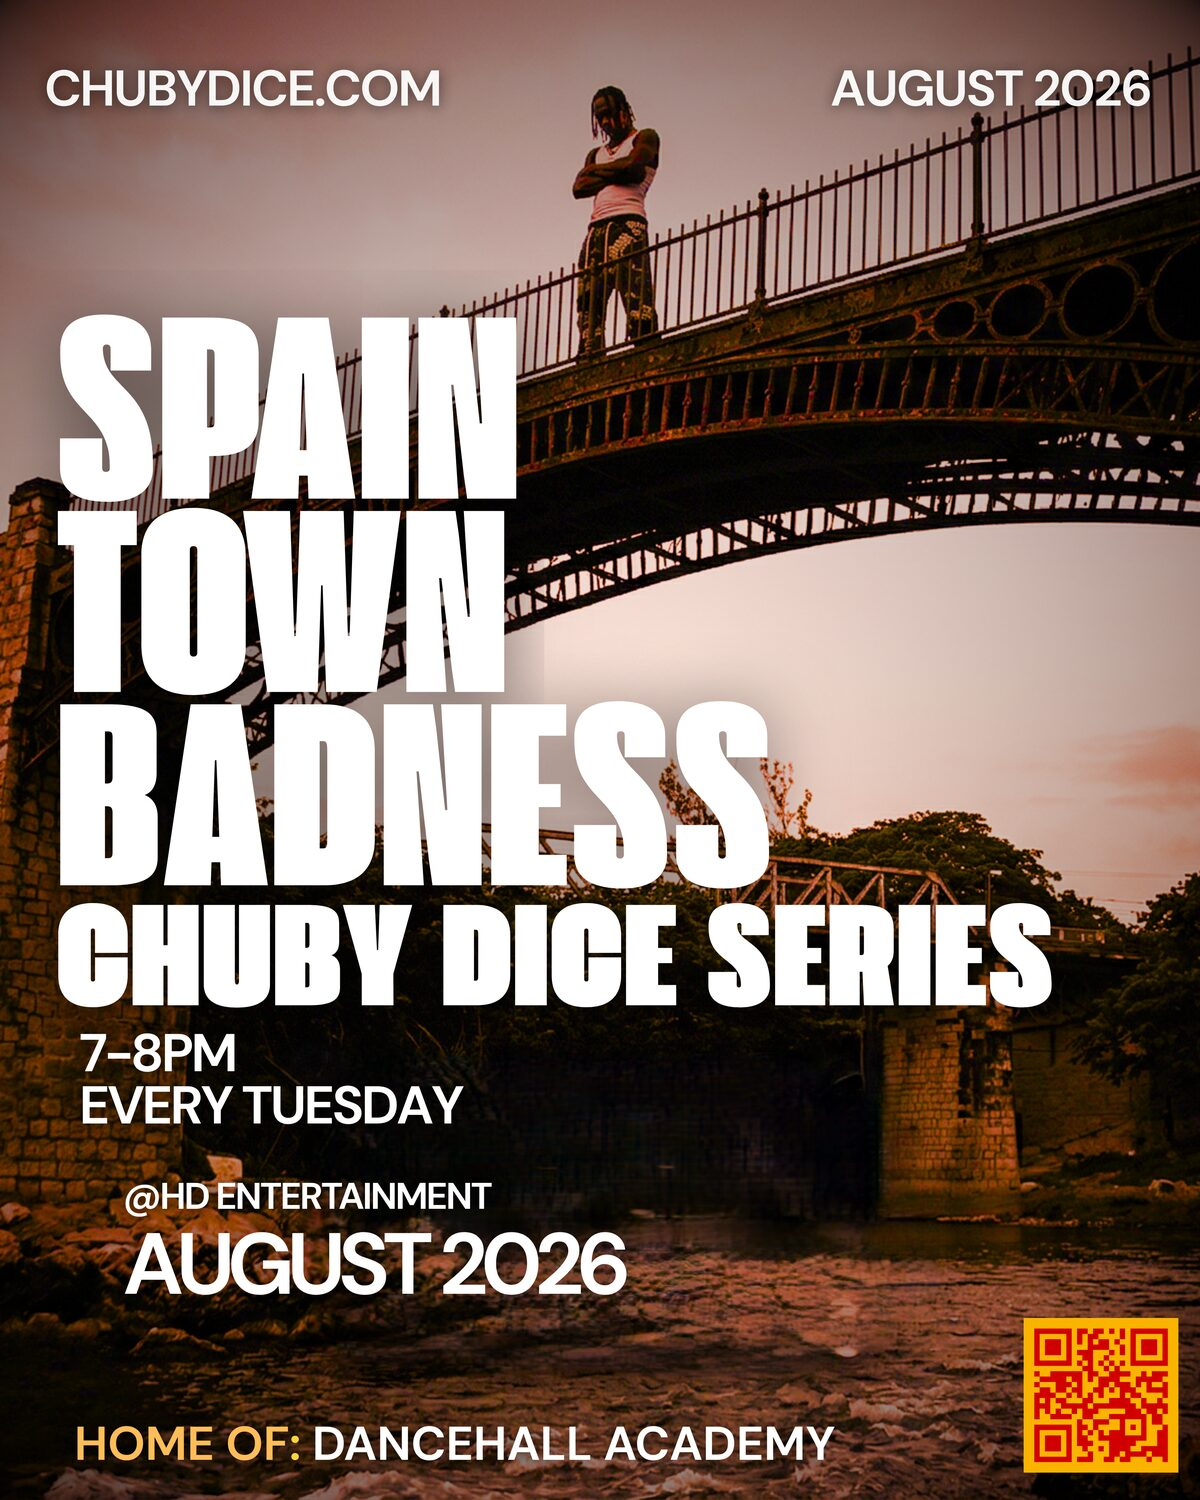
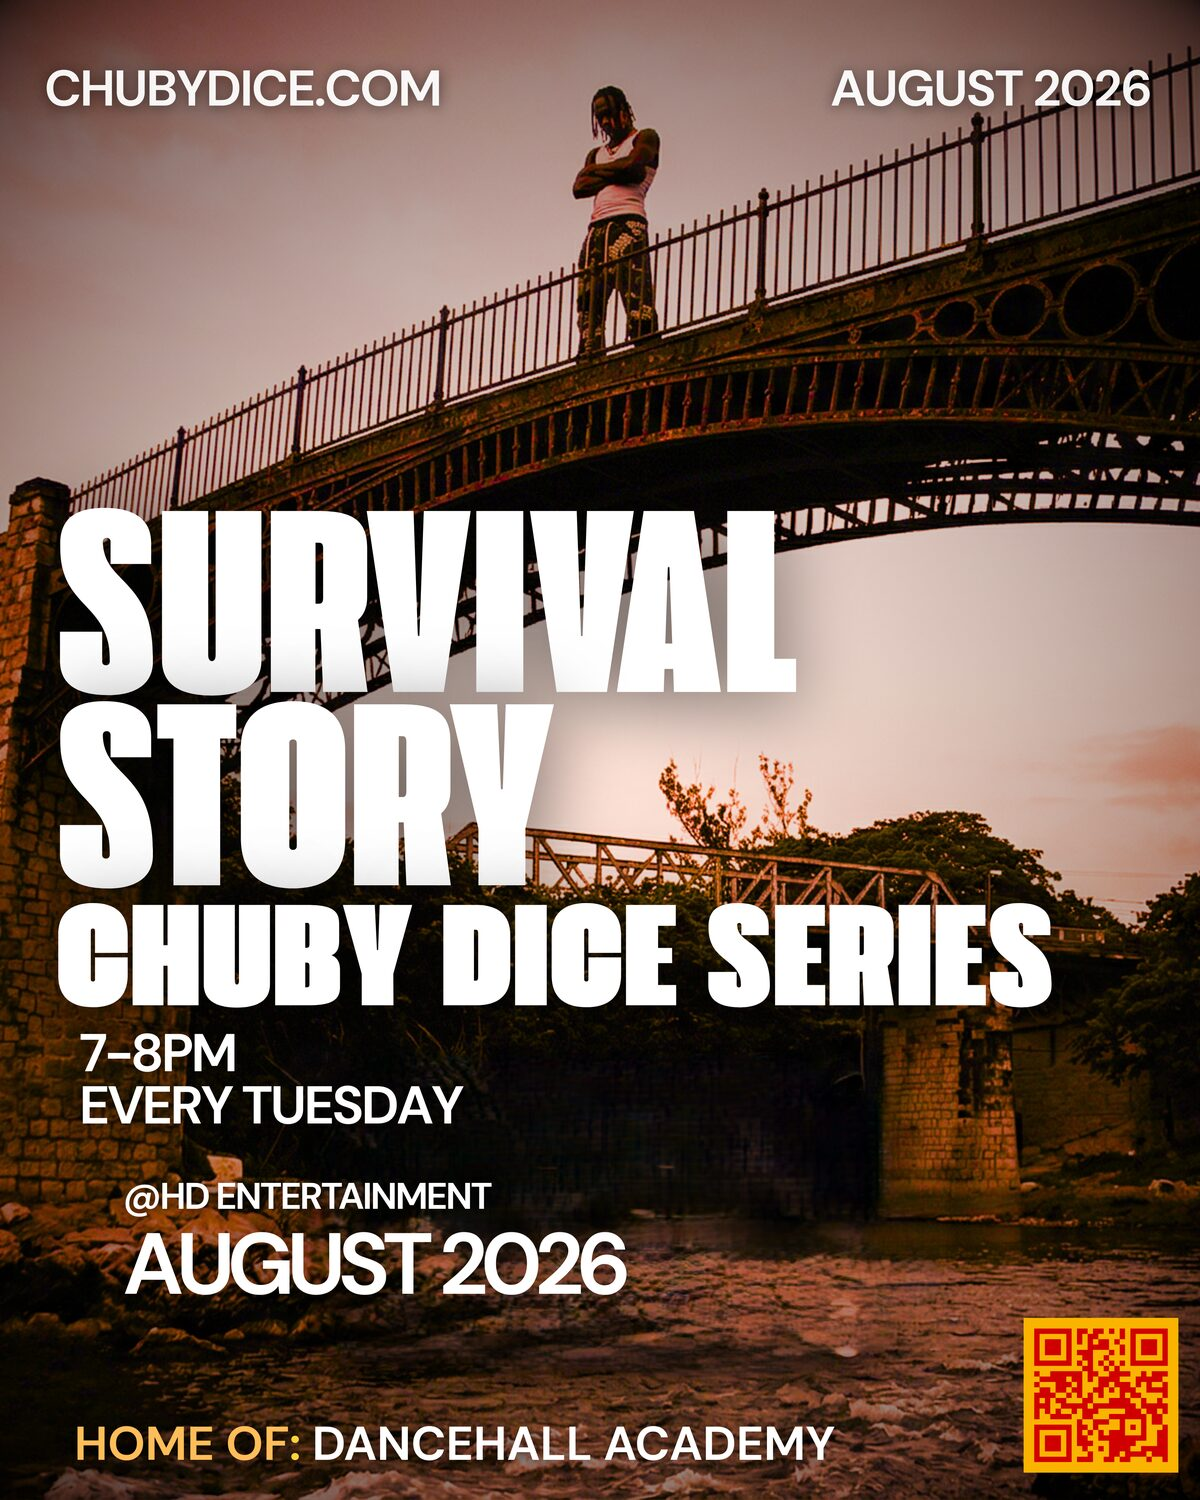
feat: attach clash images, runsheets, and revised August series image
- Replace spain-town-badness.jpg with revised August series image
- Add clash-overarching.jpg to clash.html hero and index.html tile
- Add litefeet-v-dancehall.jpg to hero and clash.html section
- Add krump-v-dancehall.jpg to hero and clash.html section
- Add MAY and AUGUST runsheet images to clash sub-pages
- Add clash-no-photo.jpg and clash-clean.jpg as alternate variants
- Remove all "Shell — Image TBC" badges and placeholder text from clash sections
- All images optimized from 3-13MB PNGs to 187-294KB JPGs

Changed region(s): [[0.0308, 0.184, 0.6783, 0.6133]]

diff --git a/clash.html b/clash.html
@@ -508,7 +508,7 @@ footer {
 
 <!-- ─── HERO ─── -->
 <section class="hero">
-  <img src="images/clash-inna-dancehall.png" alt="Clash Inna Dancehall" style="position:absolute;inset:0;width:100%;height:100%;object-fit:cover;object-position:center top;z-index:0;opacity:0.6;" />
+  <img src="images/clash-overarching.jpg" alt="Clash Inna Dancehall" style="position:absolute;inset:0;width:100%;height:100%;object-fit:cover;object-position:center top;z-index:0;opacity:0.6;" loading="eager" decoding="async" />
   <div style="position:absolute;inset:0;background:linear-gradient(to bottom,rgba(10,10,10,0.4) 0%,rgba(10,10,10,0.2) 40%,rgba(10,10,10,0.7) 80%,rgba(10,10,10,1) 100%);z-index:1;pointer-events:none;"></div>
   <div class="hero-bg-text" style="z-index:2;">CLASH</div>
   <div class="hero-content" style="position:relative;z-index:3;">
@@ -556,14 +556,12 @@ footer {
   <!-- LITEFEET V DANCEHALL — SHELL -->
   <div style="background:linear-gradient(135deg,rgba(6,214,160,0.04) 0%,rgba(4,3,10,0.6) 100%);border:1px solid rgba(6,214,160,0.12);border-radius:16px;padding:32px;margin-bottom:28px;">
     <div style="display:flex;align-items:center;gap:10px;flex-wrap:wrap;margin-bottom:12px;">
-      <span style="display:inline-block;font-family:'Outfit',sans-serif;font-size:0.65rem;font-weight:700;letter-spacing:0.15em;text-transform:uppercase;color:#f5c518;background:rgba(245,197,24,0.1);border:1px solid rgba(245,197,24,0.25);padding:4px 10px;border-radius:50px;">Shell — Image TBC</span>
       <span style="display:inline-block;font-family:'Outfit',sans-serif;font-size:0.7rem;font-weight:700;letter-spacing:0.15em;text-transform:uppercase;color:rgba(6,214,160,0.9);background:rgba(6,214,160,0.08);border:1px solid rgba(6,214,160,0.2);padding:4px 12px;border-radius:50px;">Clash One</span>
       <span style="font-family:'Outfit',sans-serif;font-size:0.7rem;font-weight:600;color:rgba(255,255,255,0.5);">May 2026</span>
     </div>
     <h3 style="font-family:'Outfit',sans-serif;font-size:clamp(1.4rem,3vw,2rem);font-weight:800;color:rgba(6,214,160,0.95);margin-bottom:12px;letter-spacing:0.02em;">LITEFEET V DANCEHALL</h3>
-    <!-- Placeholder image area -->
-    <div style="width:100%;height:200px;background:linear-gradient(135deg,#041a14 0%,#0a2e24 50%,#04130e 100%);border-radius:12px;margin-bottom:16px;display:flex;align-items:center;justify-content:center;">
-      <span style="font-family:'Outfit',sans-serif;font-size:0.8rem;color:rgba(255,255,255,0.2);letter-spacing:0.1em;">Image placeholder — Esha to provide</span>
+    <div style="width:100%;border-radius:12px;margin-bottom:16px;overflow:hidden;position:relative;">
+      <img src="images/litefeet-v-dancehall.jpg" alt="Litefeet v Dancehall — May 2026" style="width:100%;height:280px;object-fit:cover;object-position:center top;display:block;border-radius:12px;" loading="lazy" decoding="async">
     </div>
     <p style="color:rgba(220,210,245,0.7);font-size:0.9rem;line-height:1.7;margin-bottom:20px;">Write-up coming soon — Esha to provide copy for Litefeet v Dancehall clash details, format, and registration info.</p>
     <div style="display:flex;gap:10px;flex-wrap:wrap;">
@@ -575,14 +573,12 @@ footer {
   <!-- KRUMP V DANCEHALL — SHELL -->
   <div style="background:linear-gradient(135deg,rgba(6,214,160,0.04) 0%,rgba(4,3,10,0.6) 100%);border:1px solid rgba(6,214,160,0.12);border-radius:16px;padding:32px;margin-bottom:28px;">
     <div style="display:flex;align-items:center;gap:10px;flex-wrap:wrap;margin-bottom:12px;">
-      <span style="display:inline-block;font-family:'Outfit',sans-serif;font-size:0.65rem;font-weight:700;letter-spacing:0.15em;text-transform:uppercase;color:#f5c518;background:rgba(245,197,24,0.1);border:1px solid rgba(245,197,24,0.25);padding:4px 10px;border-radius:50px;">Shell — Image TBC</span>
       <span style="display:inline-block;font-family:'Outfit',sans-serif;font-size:0.7rem;font-weight:700;letter-spacing:0.15em;text-transform:uppercase;color:rgba(6,214,160,0.9);background:rgba(6,214,160,0.08);border:1px solid rgba(6,214,160,0.2);padding:4px 12px;border-radius:50px;">Clash Two</span>
       <span style="font-family:'Outfit',sans-serif;font-size:0.7rem;font-weight:600;color:rgba(255,255,255,0.5);">July 2026</span>
     </div>
     <h3 style="font-family:'Outfit',sans-serif;font-size:clamp(1.4rem,3vw,2rem);font-weight:800;color:rgba(6,214,160,0.95);margin-bottom:12px;letter-spacing:0.02em;">KRUMP V DANCEHALL</h3>
-    <!-- Placeholder image area -->
-    <div style="width:100%;height:200px;background:linear-gradient(135deg,#0a1a14 0%,#142e24 50%,#0a130e 100%);border-radius:12px;margin-bottom:16px;display:flex;align-items:center;justify-content:center;">
-      <span style="font-family:'Outfit',sans-serif;font-size:0.8rem;color:rgba(255,255,255,0.2);letter-spacing:0.1em;">Image placeholder — Esha to provide</span>
+    <div style="width:100%;border-radius:12px;margin-bottom:16px;overflow:hidden;position:relative;">
+      <img src="images/krump-v-dancehall.jpg" alt="Krump v Dancehall — July 2026" style="width:100%;height:280px;object-fit:cover;object-position:center top;display:block;border-radius:12px;" loading="lazy" decoding="async">
     </div>
     <p style="color:rgba(220,210,245,0.7);font-size:0.9rem;line-height:1.7;margin-bottom:20px;">Write-up coming soon — Esha to provide copy for Krump v Dancehall clash details, format, and registration info.</p>
     <div style="display:flex;gap:10px;flex-wrap:wrap;">

diff --git a/litefeet-v-dancehall.html b/litefeet-v-dancehall.html
@@ -597,7 +597,7 @@ footer {
 
 <!-- ─── HERO ─── -->
 <section class="hero">
-  <div style="position:absolute;inset:0;z-index:0;display:flex;align-items:center;justify-content:center;"><span style="font-family:'Outfit',sans-serif;font-size:0.8rem;color:rgba(255,255,255,0.1);letter-spacing:0.1em;">Image placeholder — Esha to provide</span></div>
+  <img src="images/litefeet-v-dancehall.jpg" alt="Litefeet v Dancehall" style="position:absolute;inset:0;width:100%;height:100%;object-fit:cover;object-position:center top;z-index:0;" loading="eager" decoding="async">
   <div class="hero-overlay"></div>
   <div class="hero-content">
     <span style="display:inline-block;font-family:'Outfit',sans-serif;font-size:0.7rem;font-weight:700;letter-spacing:0.15em;text-transform:uppercase;color:#06d6a0;background:rgba(6,214,160,0.08);border:1px solid rgba(6,214,160,0.2);padding:5px 14px;border-radius:50px;margin-bottom:12px;">Clash One · May 2026</span>
@@ -636,6 +636,11 @@ footer {
       <li>Dancehall battle techniques — TBC</li>
       <li>Registration details — TBC</li>
     </ul>
+
+    <div style="margin-top:28px;">
+      <h3 style="font-family:'Arial Narrow','Helvetica Condensed','Roboto Condensed',sans-serif;font-size:1.1rem;font-weight:700;letter-spacing:0.08em;text-transform:uppercase;color:rgba(6,214,160,0.9);margin-bottom:12px;">RUNSHEET</h3>
+      <img src="images/litefeet-v-dancehall-runsheet.jpg" alt="Litefeet v Dancehall — May 2026 Runsheet" style="width:100%;max-width:500px;border-radius:12px;border:1px solid rgba(6,214,160,0.15);" loading="lazy" decoding="async">
+    </div>
   </div>
 
   <!-- Booking card -->

diff --git a/krump-v-dancehall.html b/krump-v-dancehall.html
@@ -597,7 +597,7 @@ footer {
 
 <!-- ─── HERO ─── -->
 <section class="hero">
-  <div style="position:absolute;inset:0;z-index:0;display:flex;align-items:center;justify-content:center;"><span style="font-family:'Outfit',sans-serif;font-size:0.8rem;color:rgba(255,255,255,0.1);letter-spacing:0.1em;">Image placeholder — Esha to provide</span></div>
+  <img src="images/krump-v-dancehall.jpg" alt="Krump v Dancehall" style="position:absolute;inset:0;width:100%;height:100%;object-fit:cover;object-position:center top;z-index:0;" loading="eager" decoding="async">
   <div class="hero-overlay"></div>
   <div class="hero-content">
     <span style="display:inline-block;font-family:'Outfit',sans-serif;font-size:0.7rem;font-weight:700;letter-spacing:0.15em;text-transform:uppercase;color:#06d6a0;background:rgba(6,214,160,0.08);border:1px solid rgba(6,214,160,0.2);padding:5px 14px;border-radius:50px;margin-bottom:12px;">Clash Two · July 2026</span>
@@ -636,6 +636,11 @@ footer {
       <li>Dancehall battle techniques — TBC</li>
       <li>Registration details — TBC</li>
     </ul>
+
+    <div style="margin-top:28px;">
+      <h3 style="font-family:'Arial Narrow','Helvetica Condensed','Roboto Condensed',sans-serif;font-size:1.1rem;font-weight:700;letter-spacing:0.08em;text-transform:uppercase;color:rgba(6,214,160,0.9);margin-bottom:12px;">RUNSHEET</h3>
+      <img src="images/krump-v-dancehall-runsheet.jpg" alt="Krump v Dancehall — July 2026 Runsheet" style="width:100%;max-width:500px;border-radius:12px;border:1px solid rgba(6,214,160,0.15);" loading="lazy" decoding="async">
+    </div>
   </div>
 
   <!-- Booking card -->

diff --git a/index.html b/index.html
@@ -1617,7 +1617,7 @@ footer {
 
     <!-- Clash Inna Dancehall -->
     <div class="tile tile-clash reveal" style="width:100%;position:relative;overflow:hidden;min-height:280px;">
-      <img class="tile-bg" src="images/clash-inna-dancehall.png" alt="Clash Inna Dancehall" loading="lazy" decoding="async">
+      <img class="tile-bg" src="images/clash-overarching.jpg" alt="Clash Inna Dancehall" loading="lazy" decoding="async">
       <div class="tile-overlay"></div>
       <div class="tile-inner" style="flex-direction:column;align-items:center;justify-content:center;text-align:center;gap:12px;">
         <span style="display:inline-block;font-family:'Outfit',sans-serif;font-size:0.7rem;font-weight:700;letter-spacing:0.2em;text-transform:uppercase;color:var(--cyan);background:rgba(6,214,160,0.08);border:1px solid rgba(6,214,160,0.2);padding:5px 12px;border-radius:50px;margin-bottom:8px;">May 2026</span>
